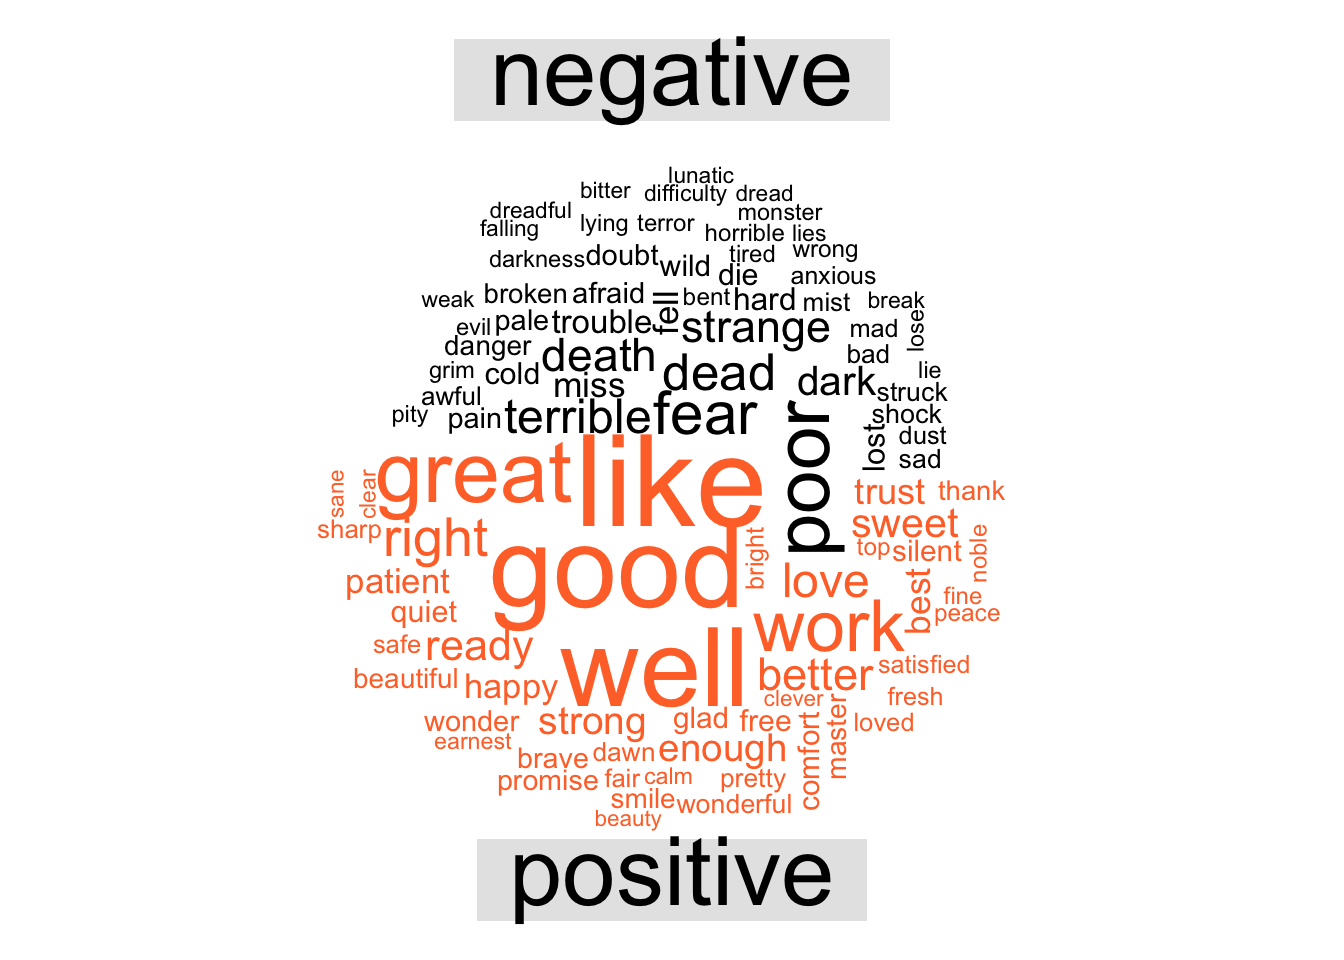
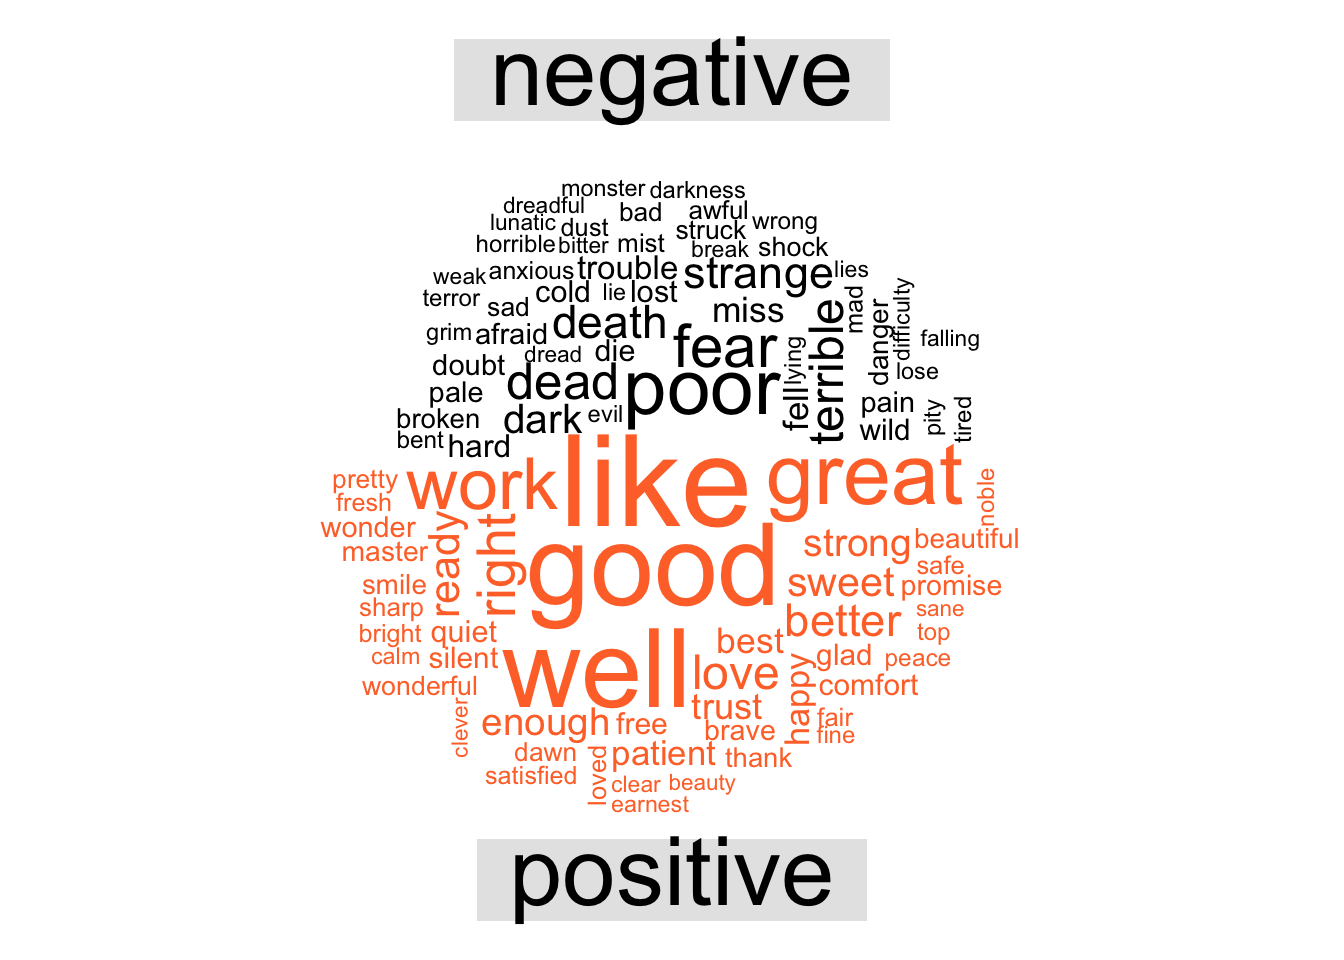
config

Changed region(s): [[0.2188, 0.1562, 0.75, 0.875]]

diff --git a/public/index.html b/public/index.html
@@ -85,18 +85,6 @@
         
 
         <li class="nav-item">
-          <a href="/#posts" data-target="#posts">
-            
-            <span>Posts</span>
-          </a>
-        </li>
-
-        
-        
-
-        
-
-        <li class="nav-item">
           <a href="/#contact" data-target="#contact">
             
             <span>Contact</span>
@@ -163,6 +151,20 @@
         <li>
           <a itemprop="sameAs" href="https://github.com/dmonca63" target="_blank">
             <i class="fa fa-github big-icon"></i>
+          </a>
+        </li>
+        
+        
+        <li>
+          <a itemprop="sameAs" href="https://www.linkedin.com/in/dayanamoncada/" target="_blank">
+            <i class="fa fa-linkedin big-icon"></i>
+          </a>
+        </li>
+        
+        
+        <li>
+          <a itemprop="sameAs" href="https://www.instagram.com/dayanamoncadam/" target="_blank">
+            <i class="fa fa-instagram big-icon"></i>
           </a>
         </li>
         
@@ -369,41 +371,39 @@ HR_VS_SO$name&lt;-paste(HR_VS_SO$nameFirst,HR_VS_SO$nameLast)</code></pre>
   summarize(freq=n(),sentiment=first(sentiment))</code></pre>
 <pre class="r"><code>wordcloud(dracula_words$word,dracula_words$freq,min.freq=5)</code></pre>
 <pre><code>## Warning in wordcloud(dracula_words$word, dracula_words$freq, min.freq = 5):
-## good could not be fit on page. It will not be plotted.</code></pre>
+## poor could not be fit on page. It will not be plotted.</code></pre>
+<pre><code>## Warning in wordcloud(dracula_words$word, dracula_words$freq, min.freq = 5):
+## dark could not be fit on page. It will not be plotted.</code></pre>
+<pre><code>## Warning in wordcloud(dracula_words$word, dracula_words$freq, min.freq = 5):
+## trust could not be fit on page. It will not be plotted.</code></pre>
 <pre><code>## Warning in wordcloud(dracula_words$word, dracula_words$freq, min.freq = 5):
 ## astonishment could not be fit on page. It will not be plotted.</code></pre>
 <pre><code>## Warning in wordcloud(dracula_words$word, dracula_words$freq, min.freq = 5):
-## patient could not be fit on page. It will not be plotted.</code></pre>
+## destruction could not be fit on page. It will not be plotted.</code></pre>
 <pre><code>## Warning in wordcloud(dracula_words$word, dracula_words$freq, min.freq = 5):
-## better could not be fit on page. It will not be plotted.</code></pre>
+## broken could not be fit on page. It will not be plotted.</code></pre>
 <pre><code>## Warning in wordcloud(dracula_words$word, dracula_words$freq, min.freq = 5):
-## brave could not be fit on page. It will not be plotted.</code></pre>
+## miss could not be fit on page. It will not be plotted.</code></pre>
 <pre><code>## Warning in wordcloud(dracula_words$word, dracula_words$freq, min.freq = 5):
-## positively could not be fit on page. It will not be plotted.</code></pre>
+## lunatic could not be fit on page. It will not be plotted.</code></pre>
 <pre><code>## Warning in wordcloud(dracula_words$word, dracula_words$freq, min.freq = 5):
-## refuse could not be fit on page. It will not be plotted.</code></pre>
+## strange could not be fit on page. It will not be plotted.</code></pre>
 <pre><code>## Warning in wordcloud(dracula_words$word, dracula_words$freq, min.freq = 5):
-## fortune could not be fit on page. It will not be plotted.</code></pre>
+## wonder could not be fit on page. It will not be plotted.</code></pre>
 <pre><code>## Warning in wordcloud(dracula_words$word, dracula_words$freq, min.freq = 5):
-## warm could not be fit on page. It will not be plotted.</code></pre>
+## hard could not be fit on page. It will not be plotted.</code></pre>
 <pre><code>## Warning in wordcloud(dracula_words$word, dracula_words$freq, min.freq = 5):
-## ignorance could not be fit on page. It will not be plotted.</code></pre>
+## suffered could not be fit on page. It will not be plotted.</code></pre>
 <pre><code>## Warning in wordcloud(dracula_words$word, dracula_words$freq, min.freq = 5):
-## kindness could not be fit on page. It will not be plotted.</code></pre>
+## superstition could not be fit on page. It will not be plotted.</code></pre>
 <pre><code>## Warning in wordcloud(dracula_words$word, dracula_words$freq, min.freq = 5):
-## gentle could not be fit on page. It will not be plotted.</code></pre>
-<pre><code>## Warning in wordcloud(dracula_words$word, dracula_words$freq, min.freq = 5):
-## tops could not be fit on page. It will not be plotted.</code></pre>
-<pre><code>## Warning in wordcloud(dracula_words$word, dracula_words$freq, min.freq = 5):
-## concerned could not be fit on page. It will not be plotted.</code></pre>
-<pre><code>## Warning in wordcloud(dracula_words$word, dracula_words$freq, min.freq = 5):
-## trap could not be fit on page. It will not be plotted.</code></pre>
+## ready could not be fit on page. It will not be plotted.</code></pre>
 <pre><code>## Warning in wordcloud(dracula_words$word, dracula_words$freq, min.freq = 5):
 ## dread could not be fit on page. It will not be plotted.</code></pre>
 <pre><code>## Warning in wordcloud(dracula_words$word, dracula_words$freq, min.freq = 5):
-## ease could not be fit on page. It will not be plotted.</code></pre>
+## anxiety could not be fit on page. It will not be plotted.</code></pre>
 <pre><code>## Warning in wordcloud(dracula_words$word, dracula_words$freq, min.freq = 5):
-## weaker could not be fit on page. It will not be plotted.</code></pre>
+## smile could not be fit on page. It will not be plotted.</code></pre>
 <p><img src="/home/Dracula-sentiment_files/figure-html/unnamed-chunk-7-1.png" width="672" /></p>
 <pre class="r"><code>wordcloud2(dracula_words)</code></pre>
 <pre><code>## Warning in if (class(data) == &quot;table&quot;) {: the condition has length &gt; 1 and
@@ -532,7 +532,7 @@ HR_VS_SO$name&lt;-paste(HR_VS_SO$nameFirst,HR_VS_SO$nameLast)</code></pre>
   <div class="container">
     <p class="powered-by">
 
-      &copy; 2017 Dayana Moncada Morales &middot; 
+      &copy; 2017 Dayana Moncada &middot; 
 
       Powered by the <a href="https://github.com/gcushen/hugo-academic" target="_blank">Academic
       theme</a> for <a href="http://gohugo.io" target="_blank">Hugo</a>.
@@ -572,6 +572,13 @@ HR_VS_SO$name&lt;-paste(HR_VS_SO$nameFirst,HR_VS_SO$nameLast)</code></pre>
       <script>hljs.initHighlightingOnLoad();</script>
     
 
+    
+    
+    <script type="text/x-mathjax-config">
+        MathJax.Hub.Config({ tex2jax: { inlineMath: [['$','$'], ['\\(','\\)']] } });
+    </script>
+    
+    <script src="https://cdnjs.cloudflare.com/ajax/libs/mathjax/2.7.1/MathJax.js?config=TeX-AMS_CHTML" integrity="sha512-tOav5w1OjvsSJzePRtt2uQPFwBoHt1VZcUq8l8nm5284LEKE9FSJBQryzMBzHxY5P0zRdNqEcpLIRVYFNgu1jw==" crossorigin="anonymous"></script>
     
     
 

diff --git a/content/home/Dracula-sentiment.html b/content/home/Dracula-sentiment.html
@@ -32,41 +32,39 @@ output: html_document
   summarize(freq=n(),sentiment=first(sentiment))</code></pre>
 <pre class="r"><code>wordcloud(dracula_words$word,dracula_words$freq,min.freq=5)</code></pre>
 <pre><code>## Warning in wordcloud(dracula_words$word, dracula_words$freq, min.freq = 5):
-## good could not be fit on page. It will not be plotted.</code></pre>
+## poor could not be fit on page. It will not be plotted.</code></pre>
+<pre><code>## Warning in wordcloud(dracula_words$word, dracula_words$freq, min.freq = 5):
+## dark could not be fit on page. It will not be plotted.</code></pre>
+<pre><code>## Warning in wordcloud(dracula_words$word, dracula_words$freq, min.freq = 5):
+## trust could not be fit on page. It will not be plotted.</code></pre>
 <pre><code>## Warning in wordcloud(dracula_words$word, dracula_words$freq, min.freq = 5):
 ## astonishment could not be fit on page. It will not be plotted.</code></pre>
 <pre><code>## Warning in wordcloud(dracula_words$word, dracula_words$freq, min.freq = 5):
-## patient could not be fit on page. It will not be plotted.</code></pre>
+## destruction could not be fit on page. It will not be plotted.</code></pre>
 <pre><code>## Warning in wordcloud(dracula_words$word, dracula_words$freq, min.freq = 5):
-## better could not be fit on page. It will not be plotted.</code></pre>
+## broken could not be fit on page. It will not be plotted.</code></pre>
 <pre><code>## Warning in wordcloud(dracula_words$word, dracula_words$freq, min.freq = 5):
-## brave could not be fit on page. It will not be plotted.</code></pre>
+## miss could not be fit on page. It will not be plotted.</code></pre>
 <pre><code>## Warning in wordcloud(dracula_words$word, dracula_words$freq, min.freq = 5):
-## positively could not be fit on page. It will not be plotted.</code></pre>
+## lunatic could not be fit on page. It will not be plotted.</code></pre>
 <pre><code>## Warning in wordcloud(dracula_words$word, dracula_words$freq, min.freq = 5):
-## refuse could not be fit on page. It will not be plotted.</code></pre>
+## strange could not be fit on page. It will not be plotted.</code></pre>
 <pre><code>## Warning in wordcloud(dracula_words$word, dracula_words$freq, min.freq = 5):
-## fortune could not be fit on page. It will not be plotted.</code></pre>
+## wonder could not be fit on page. It will not be plotted.</code></pre>
 <pre><code>## Warning in wordcloud(dracula_words$word, dracula_words$freq, min.freq = 5):
-## warm could not be fit on page. It will not be plotted.</code></pre>
+## hard could not be fit on page. It will not be plotted.</code></pre>
 <pre><code>## Warning in wordcloud(dracula_words$word, dracula_words$freq, min.freq = 5):
-## ignorance could not be fit on page. It will not be plotted.</code></pre>
+## suffered could not be fit on page. It will not be plotted.</code></pre>
 <pre><code>## Warning in wordcloud(dracula_words$word, dracula_words$freq, min.freq = 5):
-## kindness could not be fit on page. It will not be plotted.</code></pre>
+## superstition could not be fit on page. It will not be plotted.</code></pre>
 <pre><code>## Warning in wordcloud(dracula_words$word, dracula_words$freq, min.freq = 5):
-## gentle could not be fit on page. It will not be plotted.</code></pre>
-<pre><code>## Warning in wordcloud(dracula_words$word, dracula_words$freq, min.freq = 5):
-## tops could not be fit on page. It will not be plotted.</code></pre>
-<pre><code>## Warning in wordcloud(dracula_words$word, dracula_words$freq, min.freq = 5):
-## concerned could not be fit on page. It will not be plotted.</code></pre>
-<pre><code>## Warning in wordcloud(dracula_words$word, dracula_words$freq, min.freq = 5):
-## trap could not be fit on page. It will not be plotted.</code></pre>
+## ready could not be fit on page. It will not be plotted.</code></pre>
 <pre><code>## Warning in wordcloud(dracula_words$word, dracula_words$freq, min.freq = 5):
 ## dread could not be fit on page. It will not be plotted.</code></pre>
 <pre><code>## Warning in wordcloud(dracula_words$word, dracula_words$freq, min.freq = 5):
-## ease could not be fit on page. It will not be plotted.</code></pre>
+## anxiety could not be fit on page. It will not be plotted.</code></pre>
 <pre><code>## Warning in wordcloud(dracula_words$word, dracula_words$freq, min.freq = 5):
-## weaker could not be fit on page. It will not be plotted.</code></pre>
+## smile could not be fit on page. It will not be plotted.</code></pre>
 <p><img src="/home/Dracula-sentiment_files/figure-html/unnamed-chunk-7-1.png" width="672" /></p>
 <pre class="r"><code>wordcloud2(dracula_words)</code></pre>
 <pre><code>## Warning in if (class(data) == &quot;table&quot;) {: the condition has length &gt; 1 and

diff --git a/public/404.html b/public/404.html
@@ -85,18 +85,6 @@
         
 
         <li class="nav-item">
-          <a href="/#posts">
-            
-            <span>Posts</span>
-          </a>
-        </li>
-
-        
-        
-
-        
-
-        <li class="nav-item">
           <a href="/#contact">
             
             <span>Contact</span>
@@ -129,7 +117,7 @@
   <div class="container">
     <p class="powered-by">
 
-      &copy; 2017 Dayana Moncada Morales &middot; 
+      &copy; 2017 Dayana Moncada &middot; 
 
       Powered by the <a href="https://github.com/gcushen/hugo-academic" target="_blank">Academic
       theme</a> for <a href="http://gohugo.io" target="_blank">Hugo</a>.
@@ -169,6 +157,13 @@
       <script>hljs.initHighlightingOnLoad();</script>
     
 
+    
+    
+    <script type="text/x-mathjax-config">
+        MathJax.Hub.Config({ tex2jax: { inlineMath: [['$','$'], ['\\(','\\)']] } });
+    </script>
+    
+    <script src="https://cdnjs.cloudflare.com/ajax/libs/mathjax/2.7.1/MathJax.js?config=TeX-AMS_CHTML" integrity="sha512-tOav5w1OjvsSJzePRtt2uQPFwBoHt1VZcUq8l8nm5284LEKE9FSJBQryzMBzHxY5P0zRdNqEcpLIRVYFNgu1jw==" crossorigin="anonymous"></script>
     
     
 

diff --git a/public/tags/academic/index.html b/public/tags/academic/index.html
@@ -80,18 +80,6 @@
         
 
         <li class="nav-item">
-          <a href="/#posts">
-            
-            <span>Posts</span>
-          </a>
-        </li>
-
-        
-        
-
-        
-
-        <li class="nav-item">
           <a href="/#contact">
             
             <span>Contact</span>
@@ -137,7 +125,7 @@
   <div class="container">
     <p class="powered-by">
 
-      &copy; 2017 Dayana Moncada Morales &middot; 
+      &copy; 2017 Dayana Moncada &middot; 
 
       Powered by the <a href="https://github.com/gcushen/hugo-academic" target="_blank">Academic
       theme</a> for <a href="http://gohugo.io" target="_blank">Hugo</a>.
@@ -168,6 +156,13 @@
     
     
 
+    
+    
+    <script type="text/x-mathjax-config">
+        MathJax.Hub.Config({ tex2jax: { inlineMath: [['$','$'], ['\\(','\\)']] } });
+    </script>
+    
+    <script src="https://cdnjs.cloudflare.com/ajax/libs/mathjax/2.7.1/MathJax.js?config=TeX-AMS_CHTML" integrity="sha512-tOav5w1OjvsSJzePRtt2uQPFwBoHt1VZcUq8l8nm5284LEKE9FSJBQryzMBzHxY5P0zRdNqEcpLIRVYFNgu1jw==" crossorigin="anonymous"></script>
     
     
 
